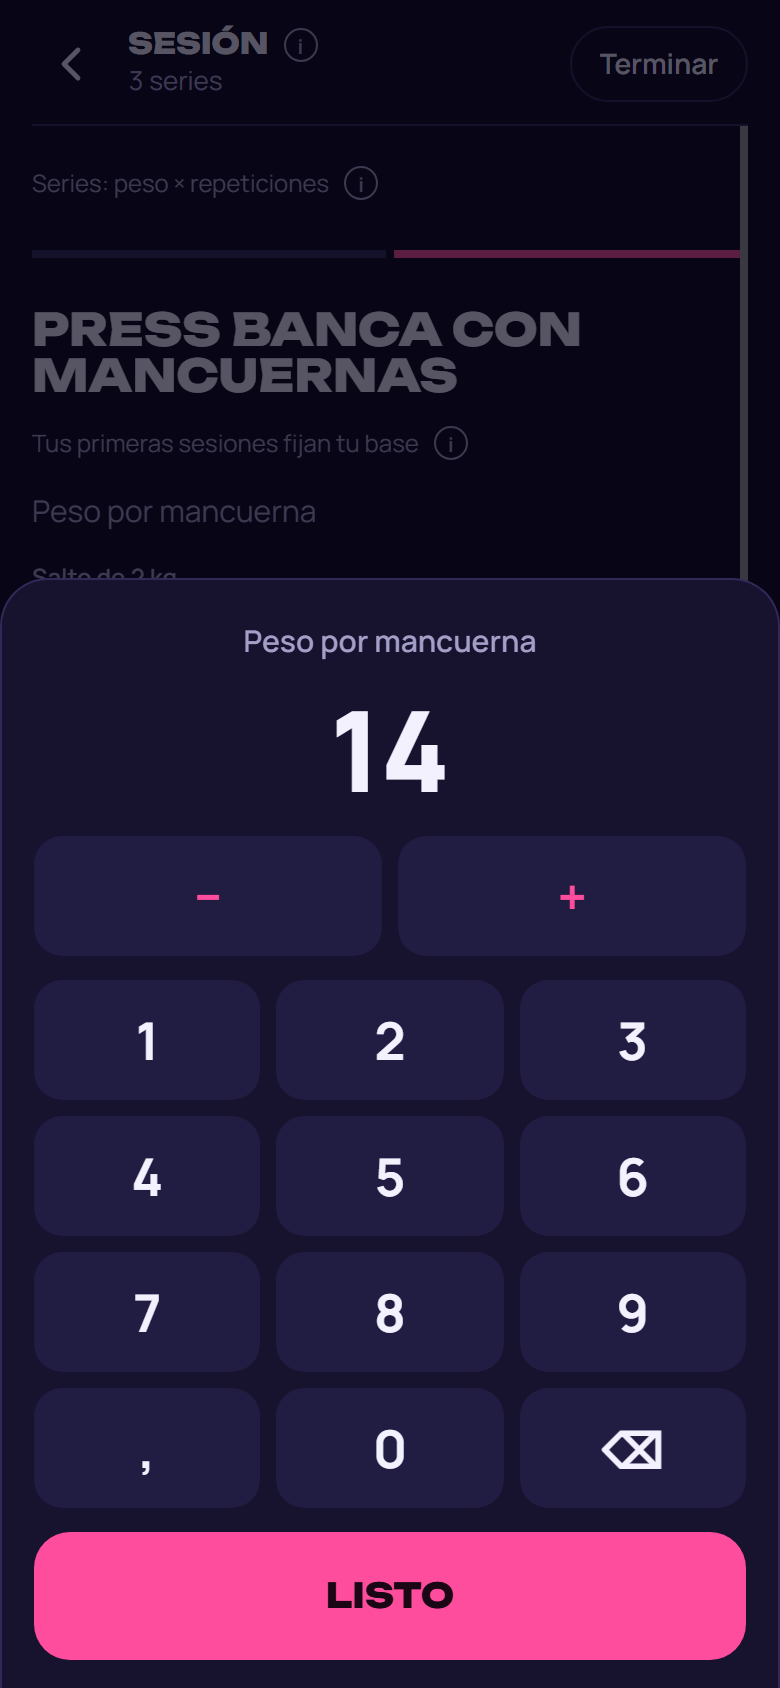
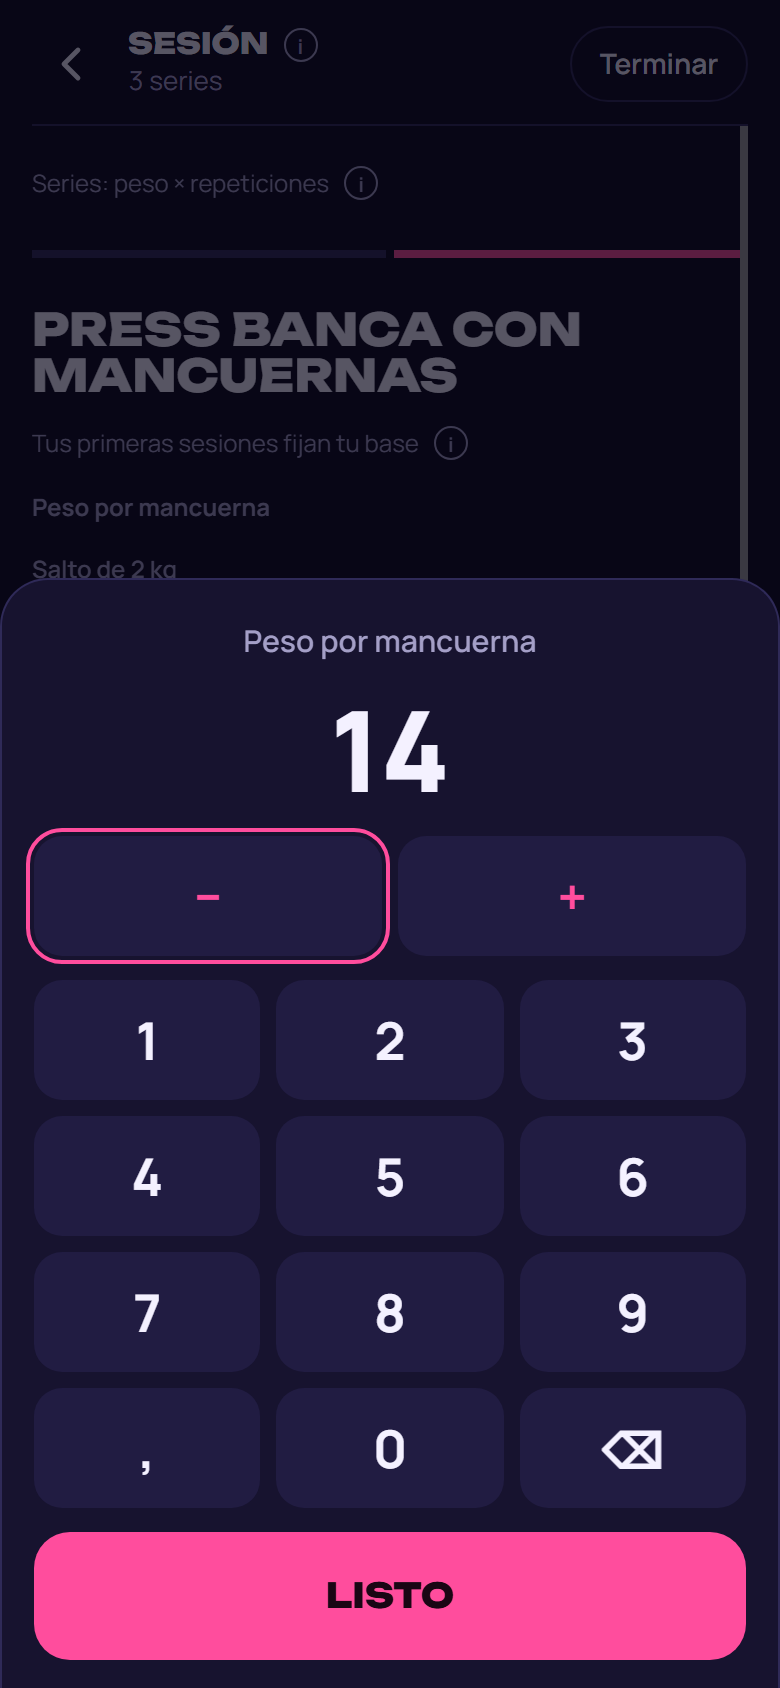
Give the per-dumbbell note the Step line's size and muted style; retake the dumbbell screenshots

diff --git a/app/src/ExerciseBlock.tsx b/app/src/ExerciseBlock.tsx
@@ -112,7 +112,7 @@ export function ExerciseBlock({
           {t.session.calibration} <Info term="calibration" />
         </p>
       )}
-      {dumbbell && <p className="muted">{t.session.perDumbbell}</p>}
+      {dumbbell && <p className="per-dumbbell">{t.session.perDumbbell}</p>}
       {target && <p className="muted">{t.session.target(target.sets, target.repMin, target.repMax)}</p>}
       {!custom && (
         <button

diff --git a/app/src/styles.css b/app/src/styles.css
@@ -933,6 +933,11 @@ button.cell {
 .pr-points {
   font: 700 12px var(--body);
 }
+.per-dumbbell {
+  margin: 0;
+  font: 700 12px var(--body);
+  color: var(--muted);
+}
 .increment {
   padding: 0;
   font-size: 12px;
